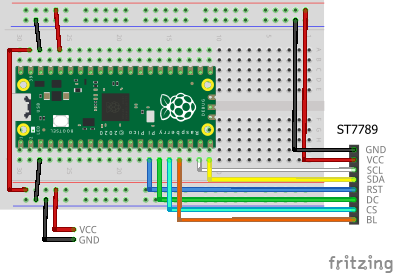
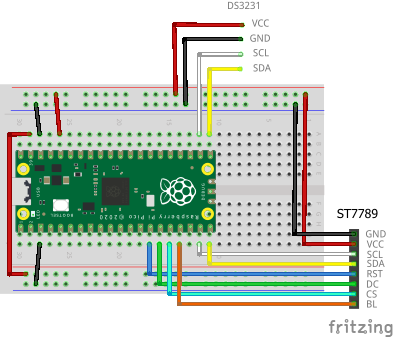
updated an article

diff --git a/articles/2025-06-22-rtc.md b/articles/2025-06-22-rtc.md
@@ -129,9 +129,9 @@ int main()
 }
 ```
 
-実際、このソースファイルは[「pico-jxglib のシェルでファイルシステムを操作する話 (自動補完とヒストリ機能で入力楽々)」](https://zenn.dev/ypsitau/articles/2025-06-09-rtctest#%E3%82%B7%E3%82%A7%E3%83%AB%E3%81%A8%E3%83%95%E3%82%A1%E3%82%A4%E3%83%AB%E3%82%B7%E3%82%B9%E3%83%86%E3%83%A0%E6%93%8D%E4%BD%9C%E3%82%B3%E3%83%9E%E3%83%B3%E3%83%89%E3%81%AE%E7%B5%84%E8%BE%BC%E3%81%BF)で紹介したものとほぼ同じです。I2C を初期化し、 RTC のインスタンス (`RTC::DD323x`) を作成すると、ファイルシステムにタイムスタンプを記録できるようになります。
+実際、このソースファイルは[「pico-jxglib のシェルでファイルシステムを操作する話 (自動補完とヒストリ機能で入力楽々)」](https://zenn.dev/ypsitau/articles/2025-06-09-rtctest#%E3%82%B7%E3%82%A7%E3%83%AB%E3%81%A8%E3%83%95%E3%82%A1%E3%82%A4%E3%83%AB%E3%82%B7%E3%82%B9%E3%83%86%E3%83%A0%E6%93%8D%E4%BD%9C%E3%82%B3%E3%83%9E%E3%83%B3%E3%83%89%E3%81%AE%E7%B5%84%E8%BE%BC%E3%81%BF)で紹介したものとほぼ同じで、Pico ボードのフラッシュメモリ上に LittleFS と FAT ファイルシステムのドライブを作成します。I2C の初期化と RTC のインスタンス (`RTC::DD323x`) の作成を追加すると、ファイルシステムにタイムスタンプを記録できるようになります。
 
-上のプログラムを実行すると、Pico ボードのフラッシュメモリ上に LittleFS と FAT ファイルシステムのドライブを作成し、シェルを起動します。シェルの操作は UART または USB で接続したホスト PC のターミナルソフトから行います。
+上のプログラムを実行すると、シェルが起動します。シェルの操作は UART または USB で接続したホスト PC のターミナルソフトから行います。
 
 RTC の日時を設定するには `rtc` コマンドを日付や時刻を引数に指定して実行します。
 
